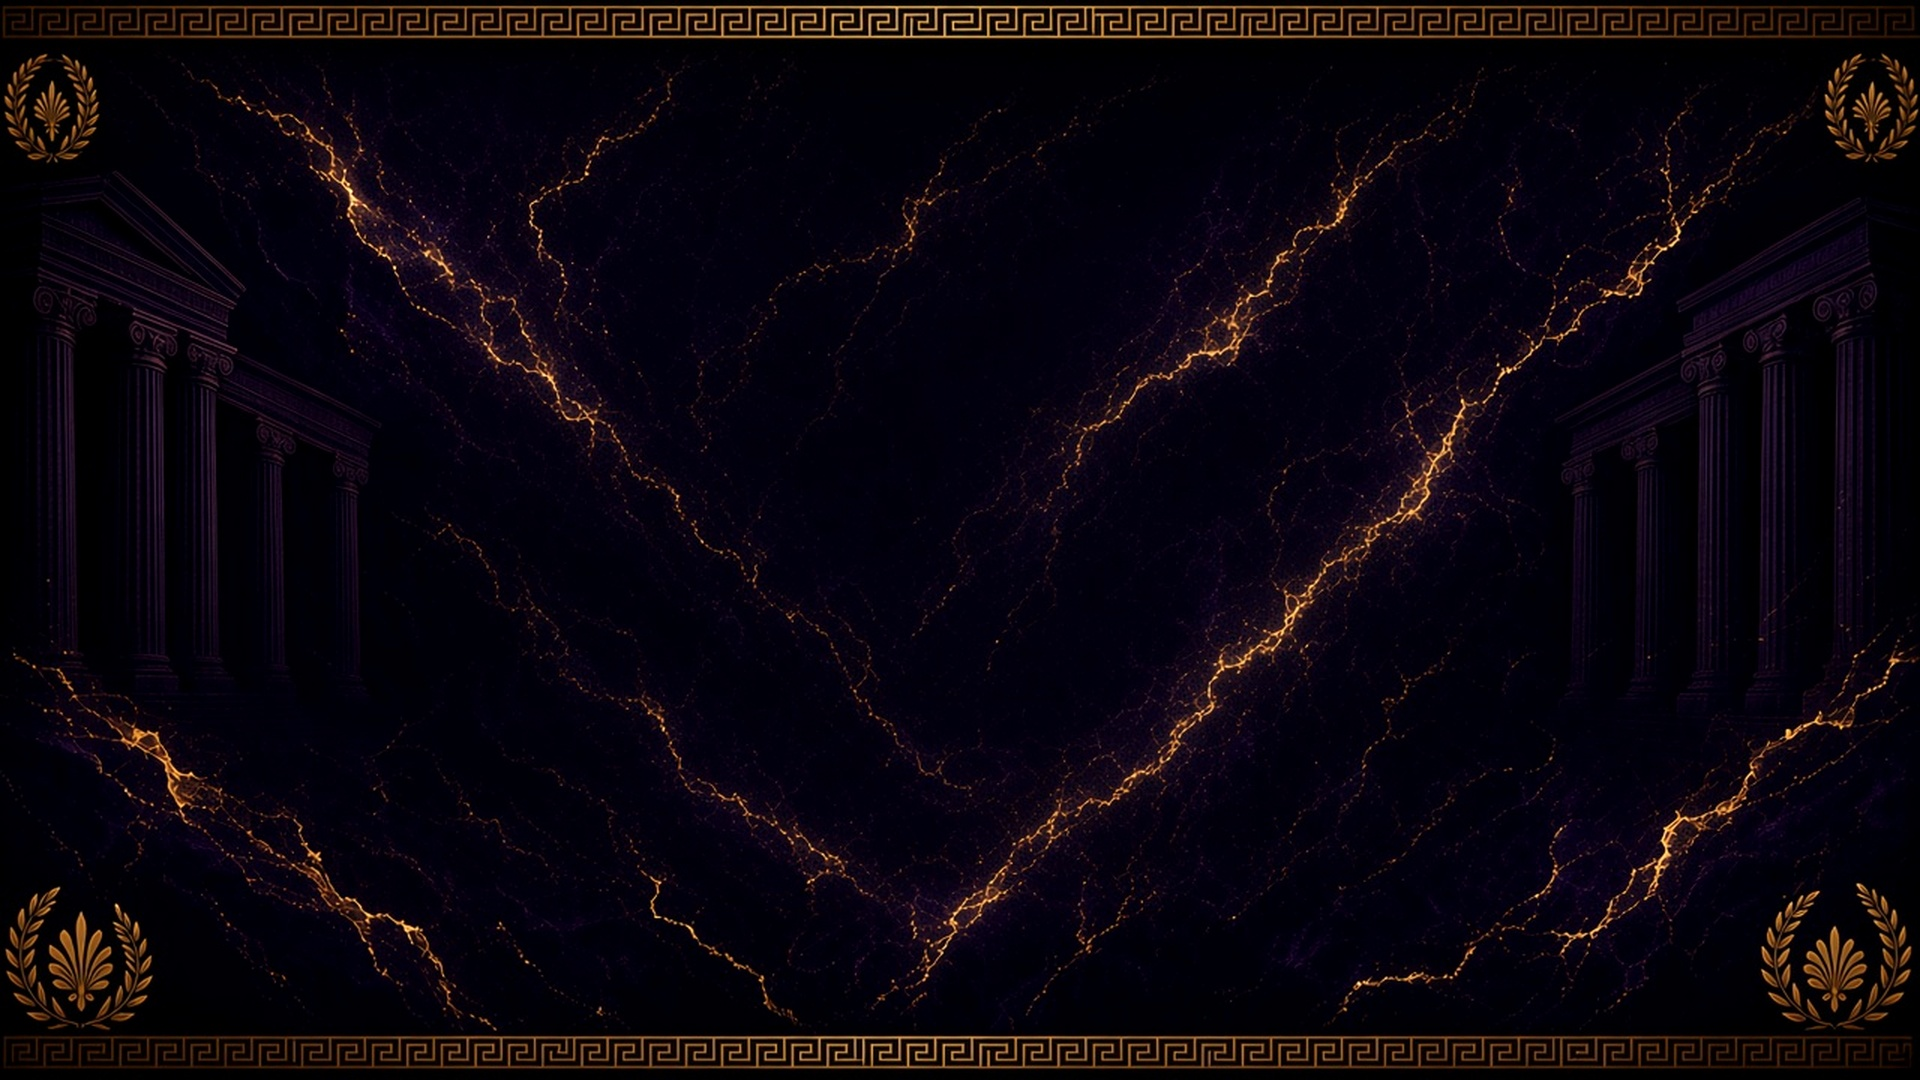
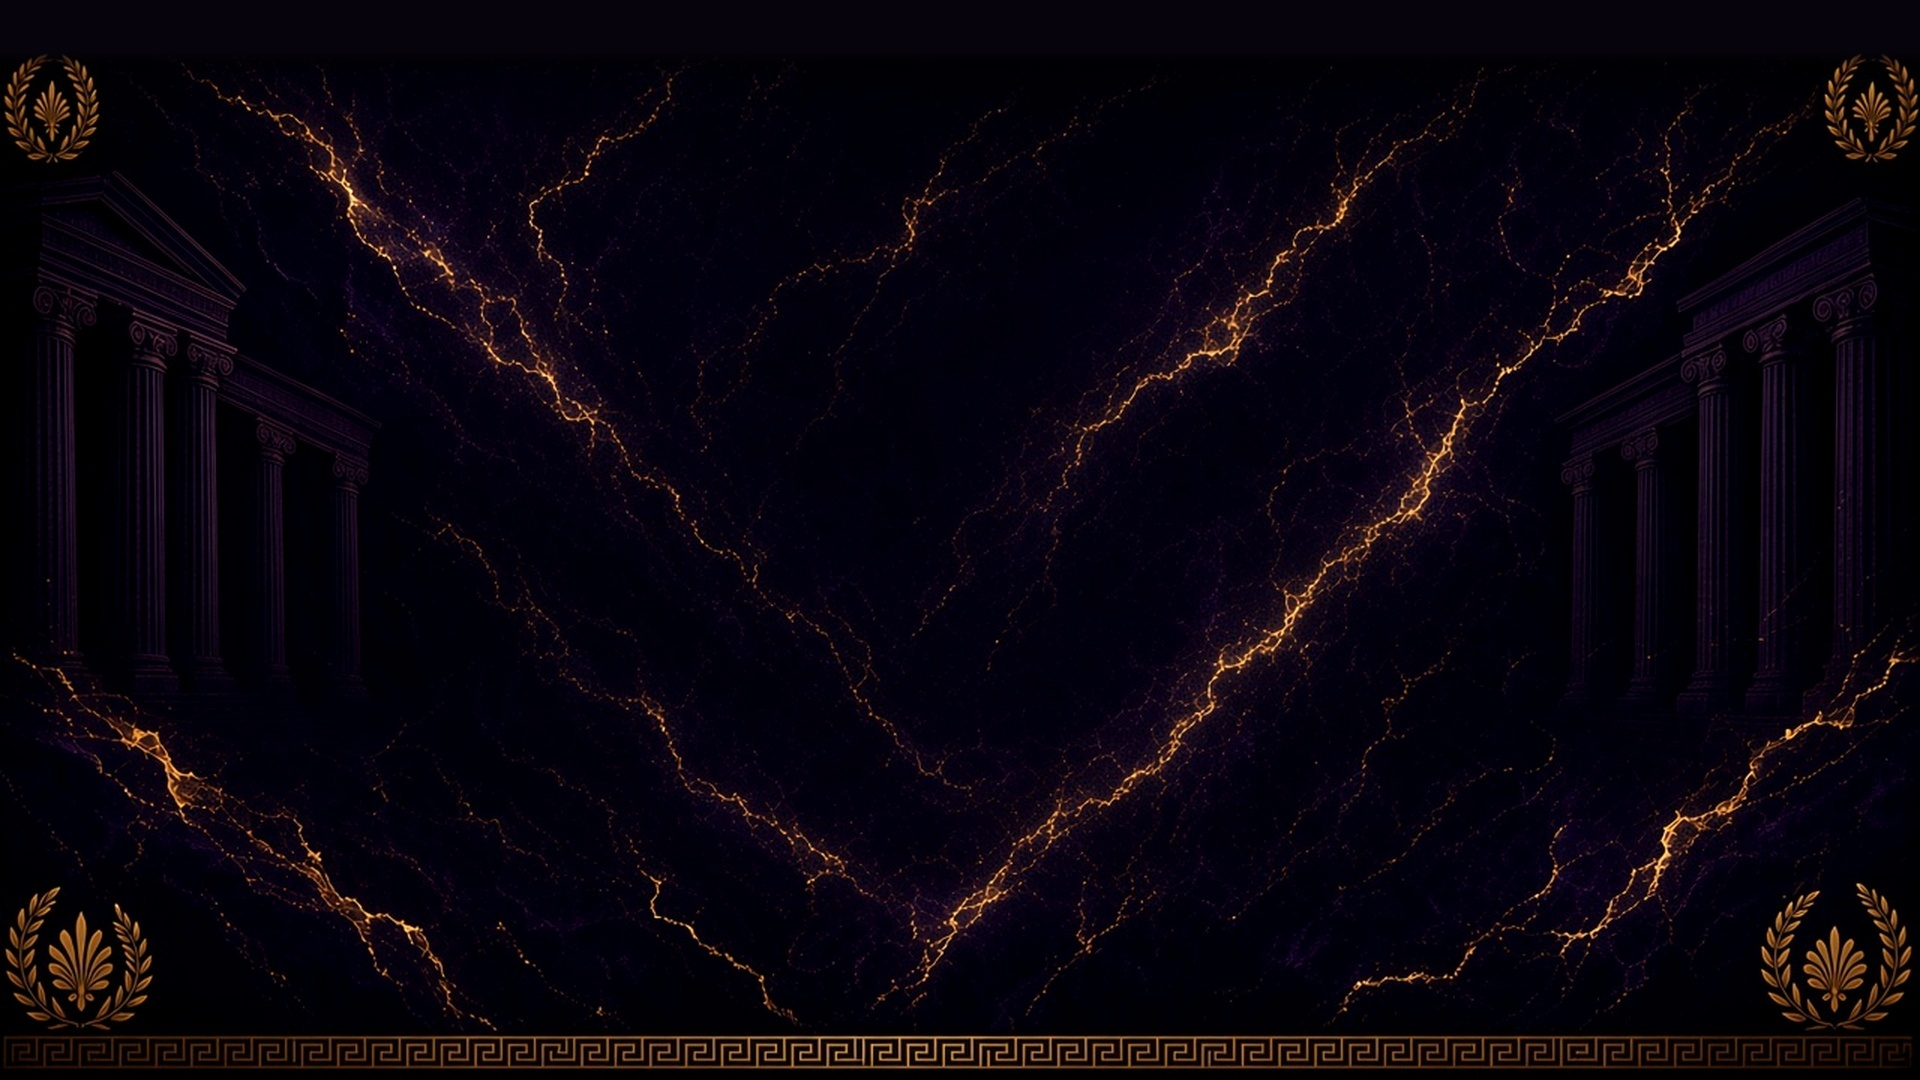
Remove top Greek-key meander from upper panel background

Changed region(s): [[0.0, 0.0, 1.0, 0.0611]]

diff --git a/index.html b/index.html
@@ -804,7 +804,7 @@
       pointer-events: none;
       overflow: hidden;
       background-color: #07030d;
-      background-image: url('assets/atlas-greek-option-b.jpg');
+      background-image: url('assets/atlas-greek-option-b.jpg?v=nomeander1');
       background-position: center center;
       background-size: cover;
       background-repeat: no-repeat;
